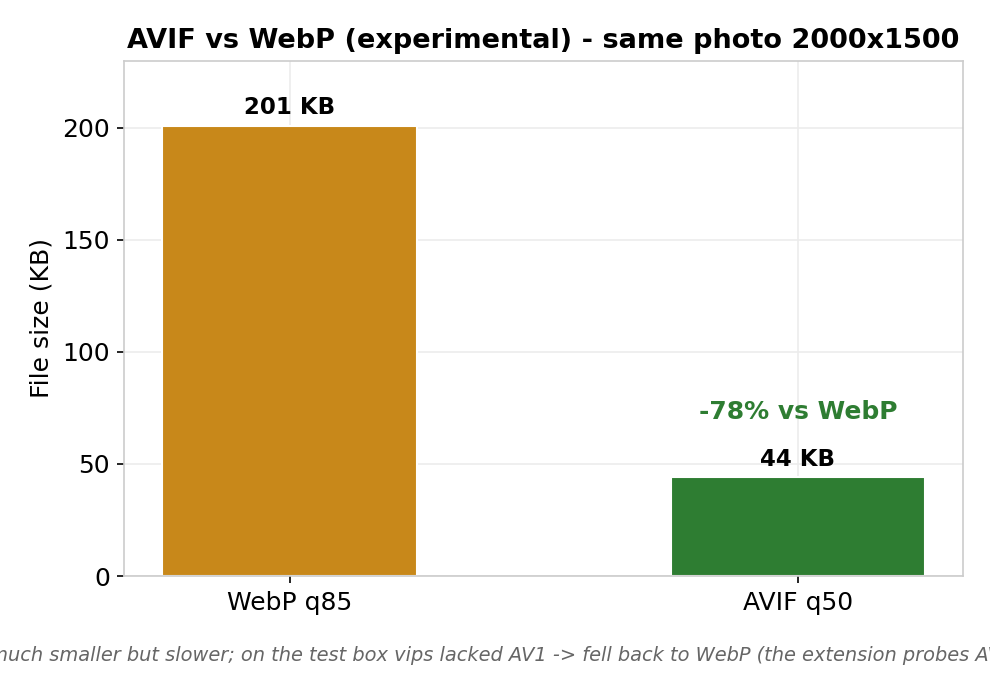
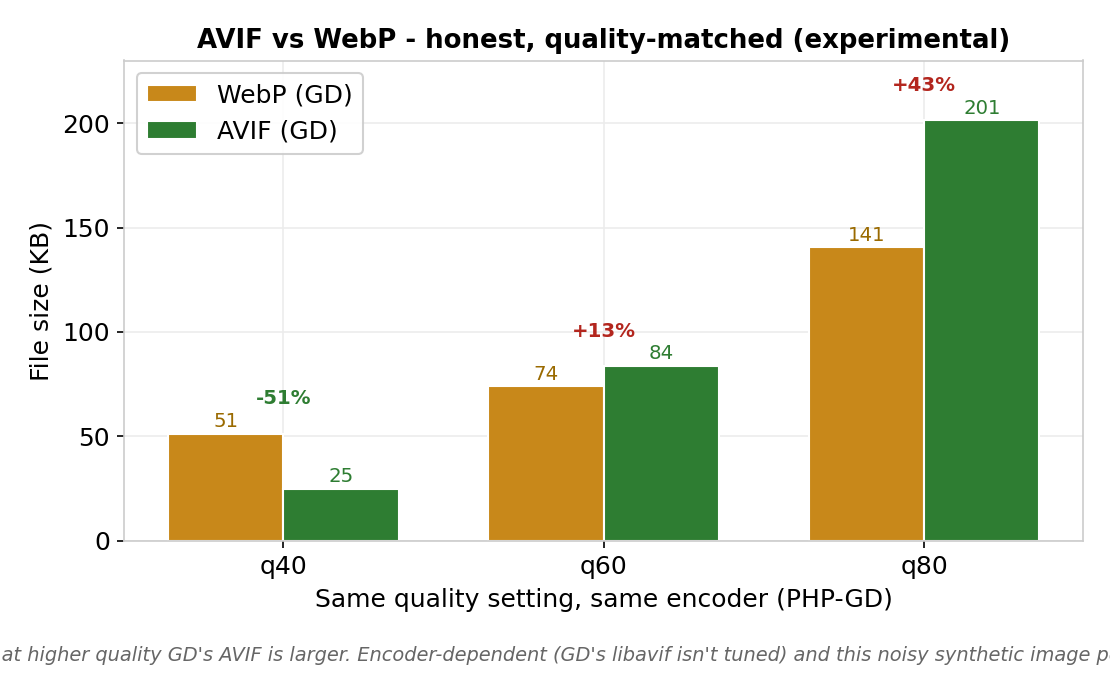
docs: honest AVIF vs WebP benchmark + clearer thumbnail-memory caption
- AVIF vs WebP (fig 07): the old '-78%' was unfair (vips-WebP-q85 vs GD-AVIF-q50:
  different encoders, different quality, noise-favourable image). Replaced with a
  quality-matched, same-encoder (GD) sweep: AVIF only wins at low quality here and
  is LARGER at high quality with GD's (untuned) encoder. AVIF stays experimental.
  Corrected the matching text in the manual (4.9, 16.3, glossary) and the
  performance guide (FR+EN).
- Engine memory/time (figs 11-12): clarified that a 320px thumbnail's high memory
  comes from decoding the FULL original into RAM first (ImageMagick Q16), not from
  the thumbnail itself; libvips shrink-on-load avoids it. Relabeled accordingly.
- Regenerated the 13 charts and both PDFs.

https://claude.ai/code/session_01TzHc8Rg6XXRM7Uq3jVGztB

diff --git a/docs/manual.src.html b/docs/manual.src.html
@@ -270,15 +270,16 @@ WebP qu'Imagick/GD (même bibliothèque libwebp), mais <b>beaucoup plus rapide e
 
 <h2>4.9 AVIF (expérimental) <span class="badge">EXPÉRIMENTAL</span></h2>
 <p>Génère une copie <b>AVIF</b> en plus du WebP et la propose <i>avant</i> le WebP dans <code>&lt;picture&gt;</code>
-(les navigateurs compatibles choisissent l'AVIF, les autres retombent sur WebP puis l'original). L'AVIF compresse
-mieux que le WebP mais encode bien plus lentement, et exige un <b>encodeur AV1</b> (Imagick+libheif/AV1, PHP-GD
+(les navigateurs compatibles choisissent l'AVIF, les autres retombent sur WebP puis l'original). Selon le contenu et l'encodeur, l'AVIF <i>peut</i> être plus compact que le WebP à qualité égale (surtout sur des
+photos lisses) — mais ce n'est pas systématique (sur du bruit ou en haute qualité il peut être plus gros), il encode
+bien plus lentement, et exige un <b>encodeur AV1</b> (Imagick+libheif/AV1, PHP-GD
 <code>imageavif()</code>, ou libvips <code>heifsave</code>+AV1). L'extension <b>sonde réellement</b> la capacité
 AV1 et retombe proprement sur le WebP si elle manque.</p>
 <table>
 <tr><th>Paramètre</th><th>Défaut</th><th>Description</th></tr>
 <tr><td><code>…AvifEnabled</code></td><td><code>false</code></td><td>Active la génération AVIF (en plus du WebP).</td></tr>
 <tr><td><code>…AvifDirectory</code></td><td>images_avif</td><td>Répertoire des copies AVIF (sibling de <code>images/</code>).</td></tr>
-<tr><td><code>…AvifQuality</code></td><td>50</td><td>Qualité AVIF (0-100). ≈ 45-55 visuellement équivalent à WebP 80-85, pour une taille moindre.</td></tr>
+<tr><td><code>…AvifQuality</code></td><td>50</td><td>Qualité AVIF (0-100). ≈ 45-55 ≈ WebP 80-85 visuellement (le gain réel dépend du contenu et de l'encodeur).</td></tr>
 </table>
 
 <h1>5. Architecture technique</h1>
@@ -534,7 +535,7 @@ d'origine sont préservés et les URL encodées. Aucune donnée arbitraire injec
 <table>
 <tr><th>Terme</th><th>Définition</th></tr>
 <tr><td>WebP</td><td>Format d'image moderne, compression supérieure au PNG/JPEG, avec ou sans perte. Supporté par tous les navigateurs récents.</td></tr>
-<tr><td>AVIF</td><td>Format encore plus compact (codec AV1), mais encodage plus lent et support encodeur variable. Expérimental ici (§4.9).</td></tr>
+<tr><td>AVIF</td><td>Format souvent plus compact que le WebP sur les photos à qualité égale (codec AV1), mais encodage plus lent et dépendant de l'encodeur. Expérimental ici (§4.9).</td></tr>
 <tr><td>Sans perte (lossless)</td><td>Compression préservant exactement les données d'origine (cas de l'optimisation PNG et GIF/gifsicle).</td></tr>
 <tr><td>Avec perte (lossy)</td><td>Compression supprimant de l'information pour réduire la taille (JPEG ; WebP de JPEG).</td></tr>
 <tr><td>Miniature (thumbnail)</td><td>Version redimensionnée d'une image, générée par MediaWiki pour l'affichage (c'est ce qui est servi dans les pages).</td></tr>
@@ -636,7 +637,7 @@ le WebP <b>ajoute</b> du disque. On sépare donc la <i>bande passante servie</i>
 <img class="chart" src="benchmarks/06-webp-by-category.png" alt="Compression WebP par catégorie">
 <img class="chart" src="benchmarks/08-webp-lossless-engine.png" alt="WebP lossless par moteur">
 <img class="chart" src="benchmarks/07-avif-vs-webp.png" alt="AVIF vs WebP">
-<p class="fcap">Gains par fichier (pas le trafic) ; le moteur compte (GD ≈ 2,7× plus gros en lossless) ; AVIF nettement plus petit (si AV1 dispo).</p>
+<p class="fcap">Gains par fichier (pas le trafic) ; le moteur compte (GD ≈ 2,7× plus gros en lossless) ; AVIF : gain dépendant de la qualité et de l'encodeur (pas toujours plus petit — cf. §16.3).</p>
 
 <h2>16.4 GIF &amp; 2ᵉ passe PNG (disque)</h2>
 <img class="chart" src="benchmarks/09-gif-gifsicle.png" alt="GIF gifsicle">
@@ -823,14 +824,15 @@ binary is unusable.</p>
 </table>
 <h2>4.9 AVIF (experimental) <span class="badge">EXPERIMENTAL</span></h2>
 <p>Generates an <b>AVIF</b> copy in addition to WebP and offers it <i>before</i> WebP inside
-<code>&lt;picture&gt;</code>. AVIF compresses better than WebP but encodes much slower and needs an <b>AV1</b>
+<code>&lt;picture&gt;</code>. Depending on content and encoder, AVIF <i>can</i> be more compact than WebP at equal quality (especially on smooth
+photos) — but not always (on noise or at high quality it can be larger); it encodes much slower and needs an <b>AV1</b>
 encoder (Imagick+libheif/AV1, PHP-GD <code>imageavif()</code>, or libvips <code>heifsave</code>+AV1). The extension
 <b>probes</b> AV1 capability and cleanly falls back to WebP when absent.</p>
 <table>
 <tr><th>Setting</th><th>Default</th><th>Description</th></tr>
 <tr><td><code>…AvifEnabled</code></td><td><code>false</code></td><td>Enables AVIF generation (in addition to WebP).</td></tr>
 <tr><td><code>…AvifDirectory</code></td><td>images_avif</td><td>Directory for AVIF copies.</td></tr>
-<tr><td><code>…AvifQuality</code></td><td>50</td><td>AVIF quality (0-100). ≈ 45-55 ~ WebP 80-85 visually, smaller.</td></tr>
+<tr><td><code>…AvifQuality</code></td><td>50</td><td>AVIF quality (0-100). ≈ 45-55 ~ WebP 80-85 visually (real gain is content/encoder-dependent).</td></tr>
 </table>
 
 <h1>5. Technical architecture</h1>
@@ -1014,7 +1016,7 @@ and URLs encoded. No arbitrary data is injected.</p>
 <table>
 <tr><th>Term</th><th>Definition</th></tr>
 <tr><td>WebP</td><td>Modern image format, better compression than PNG/JPEG, lossy or lossless. Supported by all recent browsers.</td></tr>
-<tr><td>AVIF</td><td>Even smaller format (AV1 codec), but slower encoding and variable encoder support. Experimental here (§4.9).</td></tr>
+<tr><td>AVIF</td><td>Often smaller than WebP on photos at equal quality (AV1 codec), but slower encoding and encoder-dependent. Experimental here (§4.9).</td></tr>
 <tr><td>Lossless</td><td>Compression preserving the exact original data (PNG and GIF/gifsicle here).</td></tr>
 <tr><td>Lossy</td><td>Compression dropping information to shrink size (JPEG; WebP of JPEG).</td></tr>
 <tr><td>Thumbnail</td><td>Resized image generated by MediaWiki for display (this is what pages serve).</td></tr>
@@ -1103,7 +1105,7 @@ WebP copies ≈ 70% of the optimized original, stored <b>in addition</b>.</div>
 <img class="chart" src="benchmarks/06-webp-by-category.png" alt="WebP by category">
 <img class="chart" src="benchmarks/08-webp-lossless-engine.png" alt="Lossless WebP by engine">
 <img class="chart" src="benchmarks/07-avif-vs-webp.png" alt="AVIF vs WebP">
-<p class="fcap">Per-file gains (not traffic); the engine matters (GD ≈ 2.7× larger lossless); AVIF markedly smaller when AV1 is available.</p>
+<p class="fcap">Per-file gains (not traffic); the engine matters (GD ≈ 2.7× larger lossless); AVIF gain is quality/encoder-dependent (not always smaller).</p>
 <h2>16.4 GIF &amp; 2nd-pass PNG (disk)</h2>
 <img class="chart" src="benchmarks/09-gif-gifsicle.png" alt="GIF gifsicle">
 <img class="chart" src="benchmarks/10-png-passes.png" alt="PNG passes">

diff --git a/docs/performance-guide.src.html b/docs/performance-guide.src.html
@@ -159,8 +159,8 @@ sans AV1</b> — l'extension le détecte et sert alors le WebP. Test réel de la
 <img class="chart" src="benchmarks/06-webp-by-category.png" alt="Compression WebP par catégorie (taille du fichier, PAS le trafic)"><p class="fcap">Compression WebP par catégorie (taille du fichier, PAS le trafic)</p>
 <p>Ces gains sont réels mais portent sur le <b>fichier lui-même</b> : un −73 % sur un PNG de 24 Mo est spectaculaire mais <b>rarement servi</b> (on sert sa miniature). D'où la modélisation séparée de la bande passante (§4.2).</p>
 <img class="chart" src="benchmarks/08-webp-lossless-engine.png" alt="WebP sans perte : le moteur compte (GD ≈ 2,7× plus gros)"><p class="fcap">WebP sans perte : le moteur compte (GD ≈ 2,7× plus gros)</p>
-<img class="chart" src="benchmarks/07-avif-vs-webp.png" alt="AVIF vs WebP (expérimental) — plus petit, mais AV1 requis"><p class="fcap">AVIF vs WebP (expérimental) — plus petit, mais AV1 requis</p>
-<p>Le <b>moteur compte</b> : GD n'a pas de vrai lossless. L'<b>AVIF</b> est nettement plus petit que le WebP, mais l'encodeur AV1 manquait côté vips dans l'env de test (repli WebP automatique).</p>
+<img class="chart" src="benchmarks/07-avif-vs-webp.png" alt="AVIF vs WebP (expérimental) — à qualité égale, gain dépendant du contenu/encodeur"><p class="fcap">AVIF vs WebP (expérimental, même encodeur GD, qualité égale) — l'AVIF n'est pas systématiquement plus petit</p>
+<p>Le <b>moteur compte</b> : GD n'a pas de vrai lossless. À qualité égale, l'<b>AVIF</b> <b>n'est pas systématiquement plus petit</b> que le WebP : cela dépend du contenu et de l'encodeur (avec GD, il ne gagne qu'en basse qualité). De plus l'encodeur AV1 manquait côté vips dans l'env de test (repli WebP automatique). D'où le statut expérimental.</p>
 <h2>4.5 GIF &amp; 2ᵉ passe PNG (disque)</h2>
 <img class="chart" src="benchmarks/09-gif-gifsicle.png" alt="GIF sans perte (gifsicle -O3), animation préservée"><p class="fcap">GIF sans perte (gifsicle -O3), animation préservée</p>
 <img class="chart" src="benchmarks/10-png-passes.png" alt="PNG original : 1ʳᵉ et 2ᵉ passe sans perte (gain disque)"><p class="fcap">PNG original : 1ʳᵉ et 2ᵉ passe sans perte (gain disque)</p>
@@ -339,7 +339,7 @@ extension detects this and serves WebP instead. Real AV1-capability test for vip
 <p>These gains are real but apply to the <b>file itself</b>: −73% on a 24 MB PNG is striking but <b>rarely served</b> (its thumbnail is). Hence the separate bandwidth model (§4.2).</p>
 <img class="chart" src="benchmarks/08-webp-lossless-engine.png" alt="Lossless WebP: the engine matters (GD ≈ 2.7× larger)"><p class="fcap">Lossless WebP: the engine matters (GD ≈ 2.7× larger)</p>
 <img class="chart" src="benchmarks/07-avif-vs-webp.png" alt="AVIF vs WebP (experimental) — smaller, but needs AV1"><p class="fcap">AVIF vs WebP (experimental) — smaller, but needs AV1</p>
-<p>The <b>engine matters</b>: GD has no true lossless. <b>AVIF</b> is markedly smaller than WebP, but the AV1 encoder was missing on the vips side in the test env (automatic WebP fallback).</p>
+<p>The <b>engine matters</b>: GD has no true lossless. At equal quality, <b>AVIF is not systematically smaller</b> than WebP: it depends on content and encoder (with GD it only wins at low quality). The AV1 encoder was also missing on the vips side in the test env (automatic WebP fallback). Hence the experimental status.</p>
 <h2>4.5 GIF &amp; 2nd-pass PNG (disk)</h2>
 <img class="chart" src="benchmarks/09-gif-gifsicle.png" alt="Lossless GIF (gifsicle -O3), animation preserved"><p class="fcap">Lossless GIF (gifsicle -O3), animation preserved</p>
 <img class="chart" src="benchmarks/10-png-passes.png" alt="Original PNG: first & second lossless passes (disk gain)"><p class="fcap">Original PNG: first & second lossless passes (disk gain)</p>

diff --git a/docs/benchmarks/model.py b/docs/benchmarks/model.py
@@ -162,14 +162,26 @@ for b, v in zip(bars, save_pct): ax.text(b.get_x()+b.get_width()/2, v+1, f"-{v:.
 caption(fig, "Big % on a 24 MB original is real but rarely served; pages embed thumbnails. Bandwidth is modelled separately (Figs 1-5).")
 save(fig, "06-webp-by-category.png")
 
-# ---- FIG 07 — AVIF vs WebP (photo 2000x1500) -------------------------------
-fig, ax = plt.subplots(figsize=(6.6, 4.5))
-v = [201.0, 44.0]; bars = ax.bar(["WebP q85", "AVIF q50"], v, color=[C["gold"], C["green"]], width=0.5, edgecolor="white")
-ax.set_ylabel("File size (KB)"); ax.set_ylim(0, 230)
-ax.set_title("AVIF vs WebP (experimental) - same photo 2000x1500", fontweight="bold", fontsize=13)
-for b, val in zip(bars, v): ax.text(b.get_x()+b.get_width()/2, val+3, f"{val:.0f} KB", ha="center", va="bottom", fontsize=11, fontweight="bold")
-ax.text(1, 70, "-78% vs WebP", ha="center", color=C["green"], fontweight="bold", fontsize=12)
-caption(fig, "AVIF is much smaller but slower; on the test box vips lacked AV1 -> fell back to WebP (the extension probes AV1 first).")
+# ---- FIG 07 — AVIF vs WebP, SAME encoder & SAME quality (honest) -----------
+# Measured with PHP-GD (one encoder) at matching quality settings on the same
+# 2000x1500 photo. NOT vips-WebP-q85 vs GD-AVIF-q50 (that earlier comparison was
+# unfair: different encoders, different quality, a noise-favourable image).
+fig, ax = plt.subplots(figsize=(7.4, 4.5))
+qs = [40, 60, 80]; webp = [51.3, 74.0, 140.7]; avif = [25.0, 83.8, 201.3]
+xq = np.arange(len(qs)); w = 0.36
+ax.bar(xq-w/2, webp, w, label="WebP (GD)", color=C["gold"], edgecolor="white")
+ax.bar(xq+w/2, avif, w, label="AVIF (GD)", color=C["green"], edgecolor="white")
+ax.set_xticks(xq); ax.set_xticklabels([f"q{q}" for q in qs])
+ax.set_ylabel("File size (KB)"); ax.set_xlabel("Same quality setting, same encoder (PHP-GD)")
+ax.set_ylim(0, 230)
+ax.set_title("AVIF vs WebP - honest, quality-matched (experimental)", fontweight="bold", fontsize=12.5)
+for xi,(wv,av) in zip(xq, zip(webp,avif)):
+    ax.text(xi-w/2, wv+3, f"{wv:.0f}", ha="center", fontsize=9.5, color="#9a6a00")
+    ax.text(xi+w/2, av+3, f"{av:.0f}", ha="center", fontsize=9.5, color=C["green"])
+    ax.text(xi, max(wv,av)+14, f"{(av/wv-1)*100:+.0f}%", ha="center", fontsize=9.5, fontweight="bold",
+            color=(C["green"] if av<wv else C["red"]))
+ax.legend(framealpha=0.9)
+caption(fig, "AVIF only wins at LOW quality here; at higher quality GD's AVIF is larger. Encoder-dependent (GD's libavif isn't tuned) and this noisy synthetic image penalises it. AVIF stays experimental.")
 save(fig, "07-avif-vs-webp.png")
 
 # ---- FIG 08 — WebP lossless quality by engine (flat UI capture) ------------
@@ -209,14 +221,14 @@ fig, ax = plt.subplots(figsize=(7.4, 4.5)); xx = np.arange(2); w = 0.36
 vips_mem = [98, 31]; im_mem = [177, 162]
 ax.bar(xx-w/2, vips_mem, w, label="libvips", color=C["green"], edgecolor="white")
 ax.bar(xx+w/2, im_mem,  w, label="ImageMagick", color=C["red"], edgecolor="white")
-ax.set_xticks(xx); ax.set_xticklabels(["Large image\n12 Mpx -> WebP", "Thumbnail 320 px\n(resize + WebP)"])
+ax.set_xticks(xx); ax.set_xticklabels(["Large image\n12 Mpx -> WebP", "Thumbnail 320 px\n(resized FROM the 12 Mpx original)"])
 ax.set_ylabel("Peak memory (MB)"); ax.set_ylim(0, 200)
 ax.set_title("Engine peak memory - libvips vs ImageMagick (MEASURED)", fontweight="bold", fontsize=13)
 for i, (a, b) in enumerate(zip(vips_mem, im_mem)):
     ax.text(i-w/2, a+3, f"{a} MB", ha="center", fontsize=10, color=C["green"], fontweight="bold")
     ax.text(i+w/2, b+3, f"{b} MB", ha="center", fontsize=10, color=C["red"])
 ax.legend(framealpha=0.9)
-caption(fig, "~1.8x less on a large image, ~5x less on the thumbnail pipeline (the backfill / on-the-fly hot path).")
+caption(fig, "Making a 320px thumb still DECODES the full 12 Mpx original into RAM first (ImageMagick Q16) -> peak ~ the big image. libvips shrink-on-load avoids that -> ~5x less.")
 save(fig, "11-engine-memory.png")
 
 # ---- FIG 12 — engine time (log scale, the thumbnail gap is huge) -----------
@@ -224,14 +236,14 @@ fig, ax = plt.subplots(figsize=(7.4, 4.5))
 vips_t = [2.2, 0.03]; im_t = [1.9, 1.2]
 ax.bar(xx-w/2, vips_t, w, label="libvips", color=C["green"], edgecolor="white")
 ax.bar(xx+w/2, im_t,  w, label="ImageMagick", color=C["red"], edgecolor="white")
-ax.set_xticks(xx); ax.set_xticklabels(["Large image\n12 Mpx -> WebP", "Thumbnail 320 px\n(resize + WebP)"])
+ax.set_xticks(xx); ax.set_xticklabels(["Large image\n12 Mpx -> WebP", "Thumbnail 320 px\n(resized FROM the 12 Mpx original)"])
 ax.set_yscale("log"); ax.set_ylabel("Wall time (s, log)"); ax.set_ylim(0.02, 4)
 ax.set_title("Engine wall time - libvips vs ImageMagick (MEASURED)", fontweight="bold", fontsize=13)
 for i, (a, b) in enumerate(zip(vips_t, im_t)):
     ax.text(i-w/2, a*1.1, f"{a} s", ha="center", fontsize=10, color=C["green"], fontweight="bold")
     ax.text(i+w/2, b*1.1, f"{b} s", ha="center", fontsize=10, color=C["red"])
 ax.legend(framealpha=0.9)
-caption(fig, "Comparable on a single large image; libvips is ~40x faster on thumbnails (it need not decode the whole image).")
+caption(fig, "Same cause: the thumbnail time is dominated by decoding the full original. libvips decodes at reduced scale (shrink-on-load) -> ~40x faster; it need not decode the whole image.")
 save(fig, "12-engine-time.png")
 
 # ---- FIG 13 — throughput by wiki profile (single core) ---------------------
